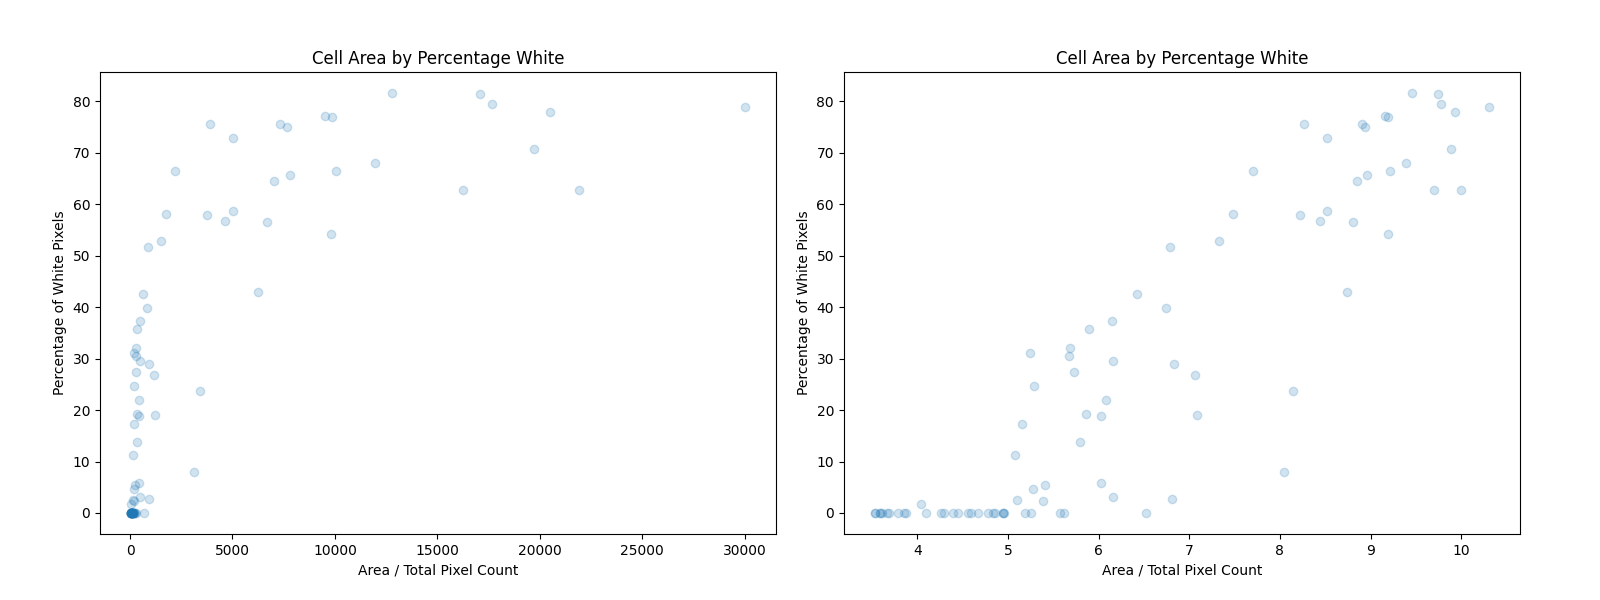
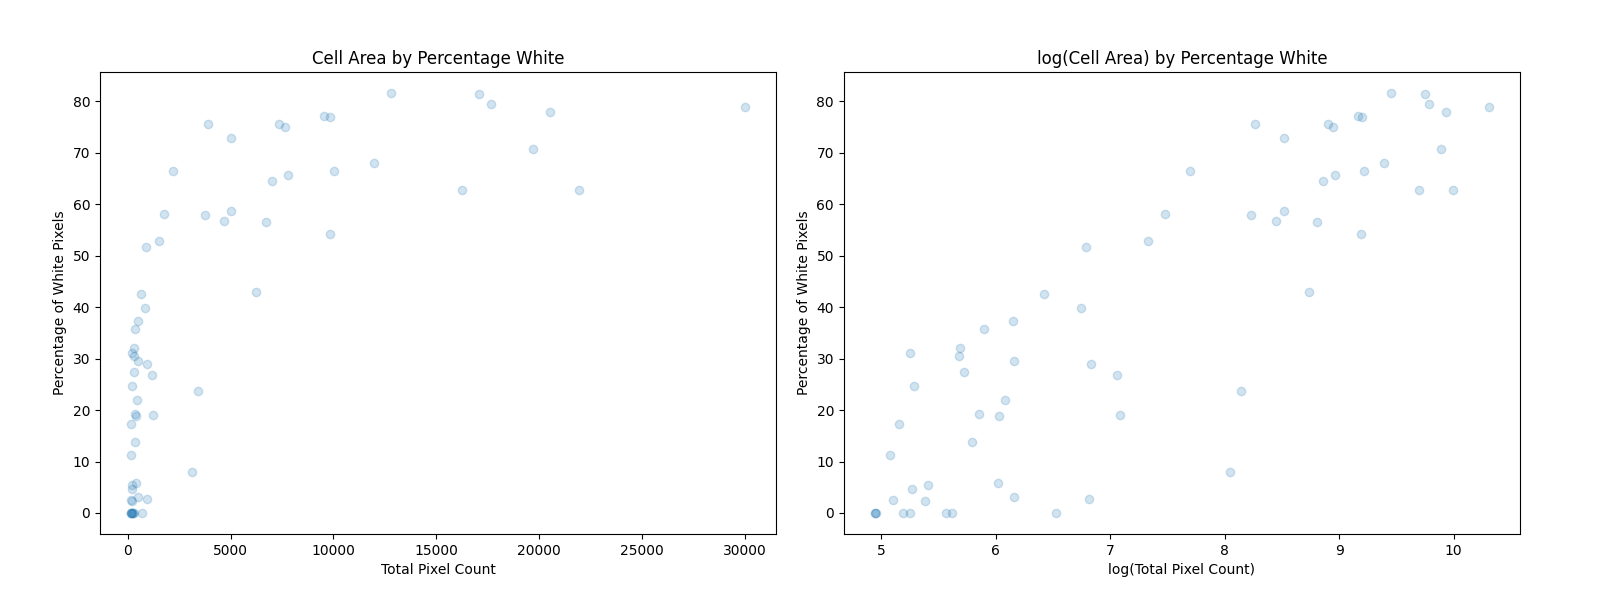
DF complete for prototype

diff --git a/src/p3.py b/src/p3.py
@@ -3,10 +3,11 @@
 # Count the light objects in an image with a dark background
 
 import cv2 as cv # Import the OpenCV library
+import math
 
 # For now we are handling a hard coded local images.
 # We may consider improving to have this deal with a series of images.
-image = cv.imread("../data/image_green.png")
+image = cv.imread("data/image_green.png")
 
 r = len(image)
 c = len(image[0])
@@ -62,11 +63,8 @@ t, m = 0, 0 # Total objects and largest object
 # DFS approach is laid out here: https://www.geeksforgeeks.org/find-the-number-of-islands-using-dfs/
 q = []  #Queue
 cells = []
-heights = []
-widths = []
-centroid_x = []
-centroid_y = []
-white = 0 # We need to figure out how to get actual count of white pixels per cell
+white = 0 # A measure of flourescence (i.e how much dye the cell has absorbed)
+black = 0 # A measure of distortedness (i.e. how non-spherical the cell is)
 
 # Loop through all pixels by row and column
 for i in range(r):
@@ -92,10 +90,10 @@ for i in range(r):
             y = result[1]
             q.pop(0)
             k += 1 # Add to the object's pixel count after popping from the queue
-            if x<x1: x1 = x
-            if x>x2: x2 = x
-            if y<y1: y1 = y
-            if y>y2: y2 = y
+            if x<x1: x1 = x # Find the leftmost pixel
+            if x>x2: x2 = x # Find the rightmost pixel
+            if y<y1: y1 = y # Find the lowest pixel
+            if y>y2: y2 = y # Find the highest pixel
             for a in range(x-1, x+2):
                 for b in range(y-1, y+2):
                     if a < 0 or a >= r or b < 0 or b >= c: continue # Deal with out of bounds cases
@@ -107,16 +105,46 @@ for i in range(r):
                     R[a, b, 0] = 0
                     R[a, b, 1] = 0
                     R[a, b, 2] = 0
-        # Count if greater than 2^5 and add to our cells array
-        if k > 32:
+        # Count if greater than 2^7 and add to our cells array
+        if k > 128:
+            # Get the variables
+            cx = (x1 + x2) // 2
+            cy = (y1 + y2) // 2
+            height = y2 - y1
+            width = x2 - x1
+            hh = height // 2
+            hw = width // 2
+            radius = hh // 4 + hw // 4 # This lets us approximate a circle with the same center
+            circle_area = int(math.pi * radius**2)
+            # Check the count of black pixels within the radius
+            for m in range(height):
+                for n in range(width):
+                    # Calculate distance from the center
+                    if m < hh:
+                        py = int(hh - m)
+                    else:
+                        py = int(m - hh)
+                    if n < hw:
+                        px = int(hw - n)
+                    else:
+                        px = int(n - hw)
+                    d = math.sqrt(px**2 + py**2) # Thanks Pythagoras
+                    # When distance is less than radius, calculate image x and y, then check if black
+                    if d <= radius:
+                        if m < hh and n < hw:
+                            if M[cx - px, cy - py, 0] == 0:
+                                black += 1
+                        elif m < hh and n > hw:
+                            if M[cx + px, cy - py, 0] == 0:
+                                black += 1
+                        elif m > hh and n < hw:
+                            if M[cx - px, cy + py, 0] == 0:
+                                black += 1
+                        else:
+                            if M[cx + px, cy + py, 0] == 0:
+                                black += 1
             t += 1
-            cells.append([k, "%.2f" % (white*100/k)])
-            heights.append(y2-y1)
-            widths.append(x2-x1)
-            cx = (x1 + x2)//2
-            cy = (y1 + y2)//2
-            centroid_x.append(cx)
-            centroid_y.append(cy)
+            cells.append([k, white, height, width, cx, cy, circle_area, black])
             M[cx, cy, 0] = 0
             M[cx, cy, 1] = 0
             M[cx, cy, 2] = 255
@@ -127,21 +155,16 @@ for i in range(r):
                     M[a, b, 0] = 0
                     M[a, b, 1] = 0
                     M[a, b, 2] = 255
-                
-            print(y2-y1, x2-x1,"(", cx,",", cy, ")")
-        # Set max if max
         if k > m: m = k
-        # Reset counts of k and white pixels
+        # Reset counts of k, white pixels, and inner black pixels
         k = 0
         white = 0
+        black = 0
+
     
-'''cv.imshow("image_centroid", M)
-cv.waitKey(0)'''
-cv.imwrite("../data/image_centroid.png", M)
+'''cv.imshow("image_center", M)
+cv.waitKey(0)
+cv.imwrite("data/image_center.png", M)'''
 print("Total objects:", t)
 print("Largest object:", m)
 print(cells)
-print(heights)
-print(widths)
-print(centroid_x)
-print(centroid_y)

diff --git a/src/p4.py b/src/p4.py
@@ -12,9 +12,9 @@ print(df)
 
 # Conduct principal components analysis
 X = df
-pca = PCA(n_components=2)
+pca = PCA(n_components=8)
 pca.fit(X)
-print('PCA Mean: ' + str(pca.mean_[1:3]))
+print('PCA Mean: ' + str(pca.mean_[1:9]))
 print('PCA Explained Variance Ratio: ' + str(pca.explained_variance_ratio_))
 print() # New line
 
@@ -22,29 +22,29 @@ print() # New line
 fig, ax = plt.subplots(1, 2, figsize=(16, 6)) # Change code for figsize due to deprecation warning
 fig.subplots_adjust(left=0.0625, right=0.95, wspace=0.1)
 
+# Show that the brightness of a cell increases with the size
+X['% White'] = round(X['White Pixel Count'] / X['Area'] * 100, 2)
+
 ax[0].scatter(X['Area'], X['% White'], alpha=0.2)
 ax[0].set_title('Cell Area by Percentage White')
-ax[0].set_xlabel('Area / Total Pixel Count')
+ax[0].set_xlabel('Total Pixel Count')
 ax[0].set_ylabel('Percentage of White Pixels')
 
 # Calculate Log Data
 def log_function(x):
     return math.log(x)
 
-def sum_function(x):
-    return x + 0.01
-
 X['log_Area'] = X['Area'].transform(log_function)
-'''X['dummy_White'] = X['% White'].transform(sum_function)
-X['log_%White'] = X['dummy_White'].transform(log_function)'''
 
-
+# Show the logorithmic relationship
 ax[1].scatter(X['log_Area'], X['% White'], alpha=0.2)
 ax[1].set_title('log(Cell Area) by Percentage White')
-ax[1].set_xlabel('Area / Total Pixel Count')
+ax[1].set_xlabel('log(Total Pixel Count)')
 ax[1].set_ylabel('Percentage of White Pixels')
 
 plt.savefig('figs/Cell_Area_by_Percentage_White.png')
+
+
 
 # Plot principal components
 '''

diff --git a/src/p3_5.py b/src/p3_5.py
@@ -2,6 +2,6 @@
 import p3
 import pandas as pd
 
-df = pd.DataFrame(p3.cells, columns=['Area', '% White'])
+df = pd.DataFrame(p3.cells, columns=['Area', 'White Pixel Count', 'Height', 'Width', 'Center_x', 'Center_y', 'Circle Area', 'Black Pixel Count'])
 
 df.to_csv('data/example.csv')
